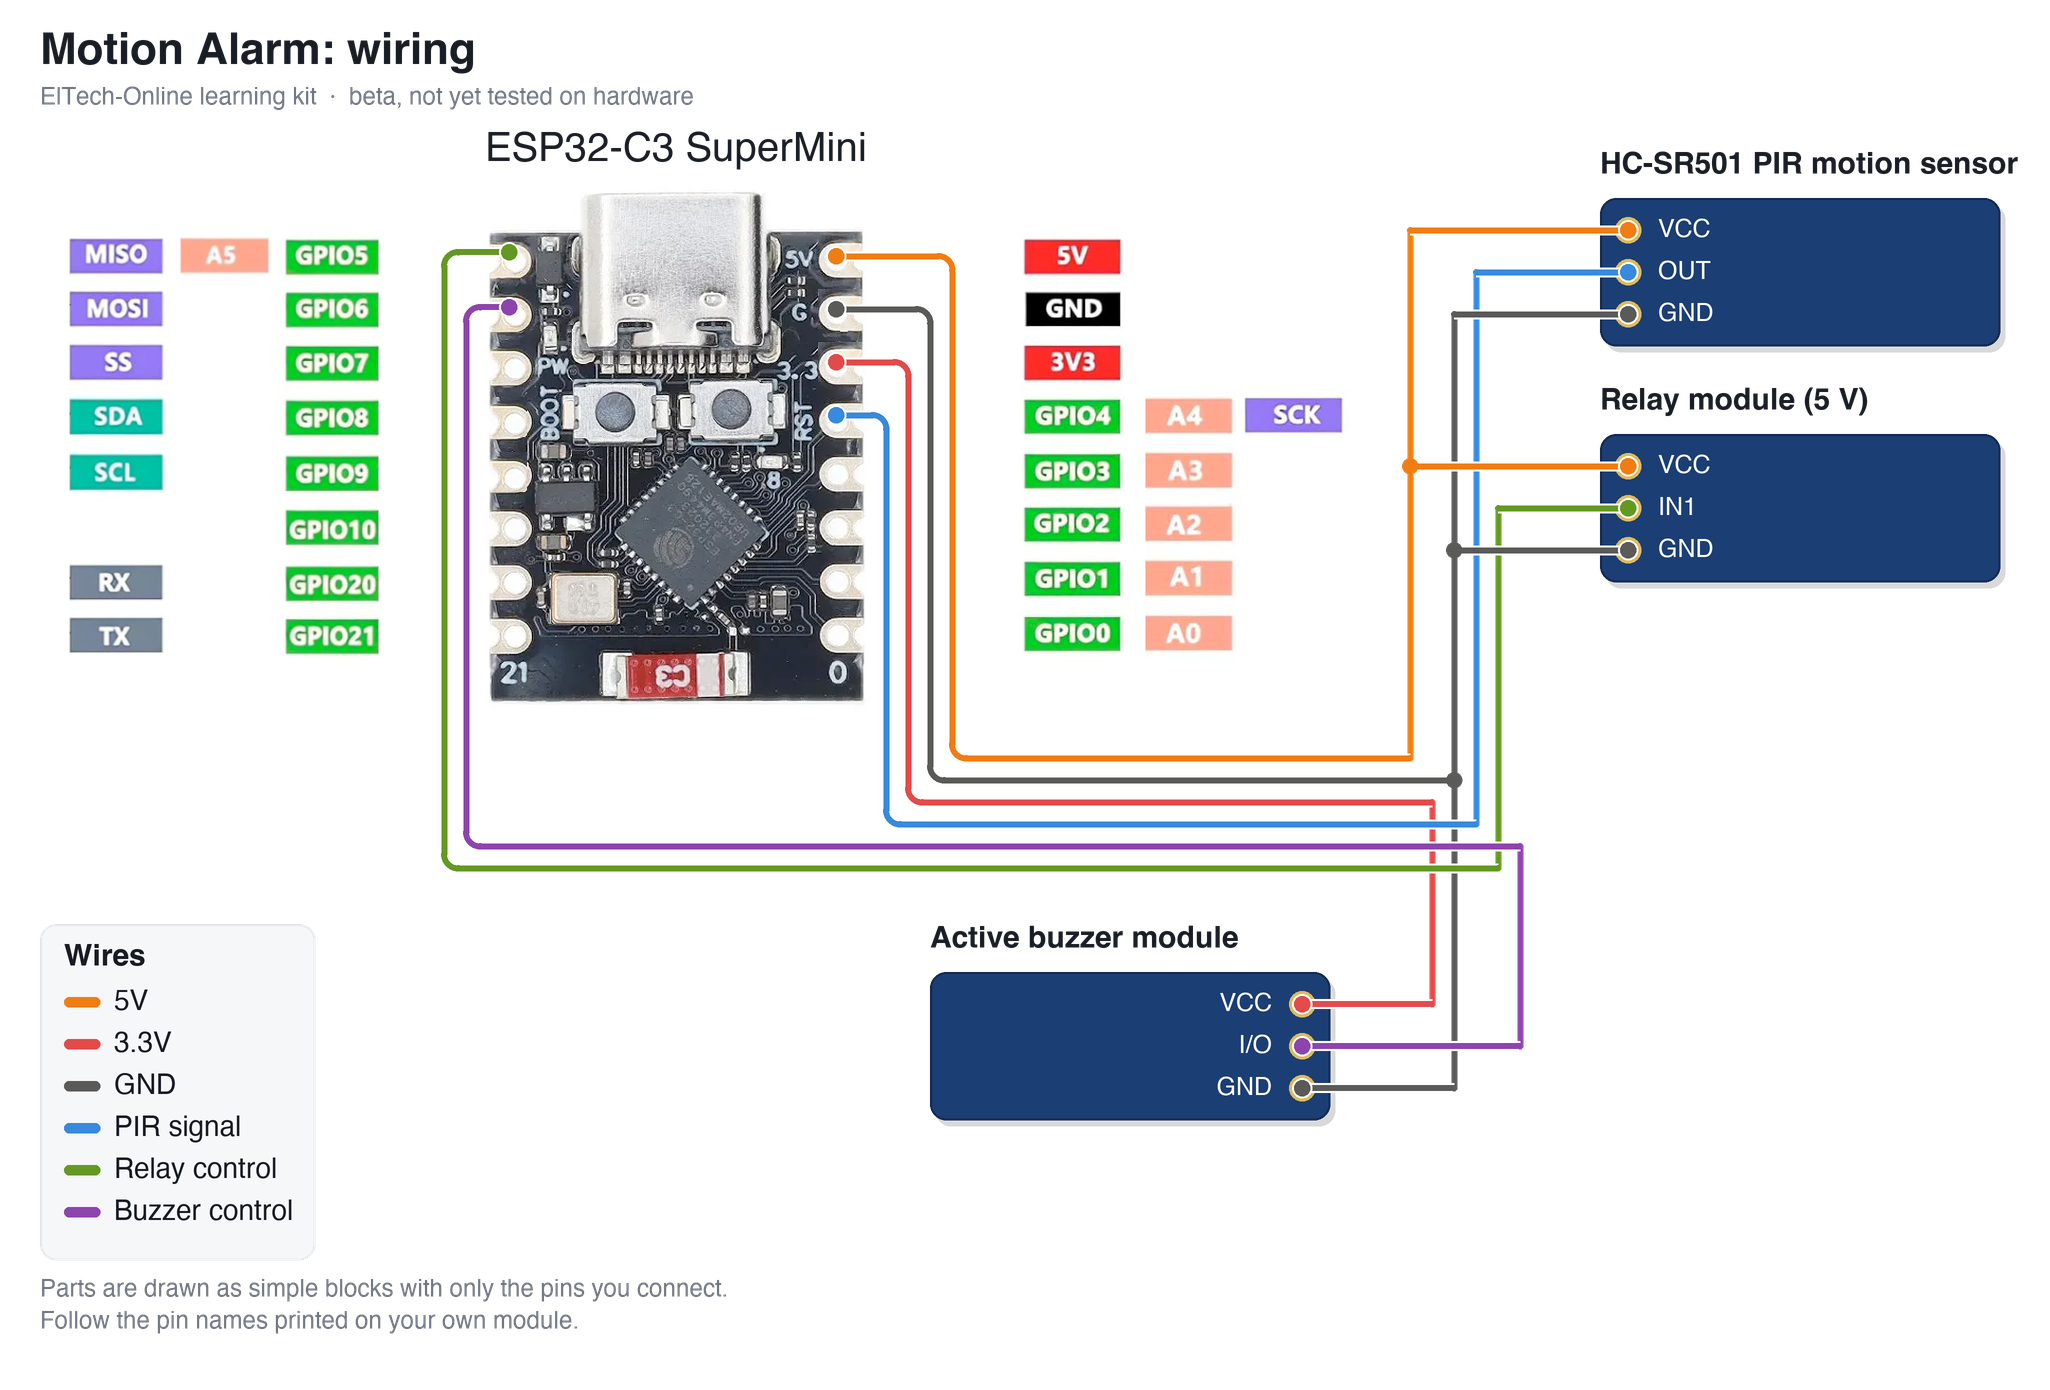
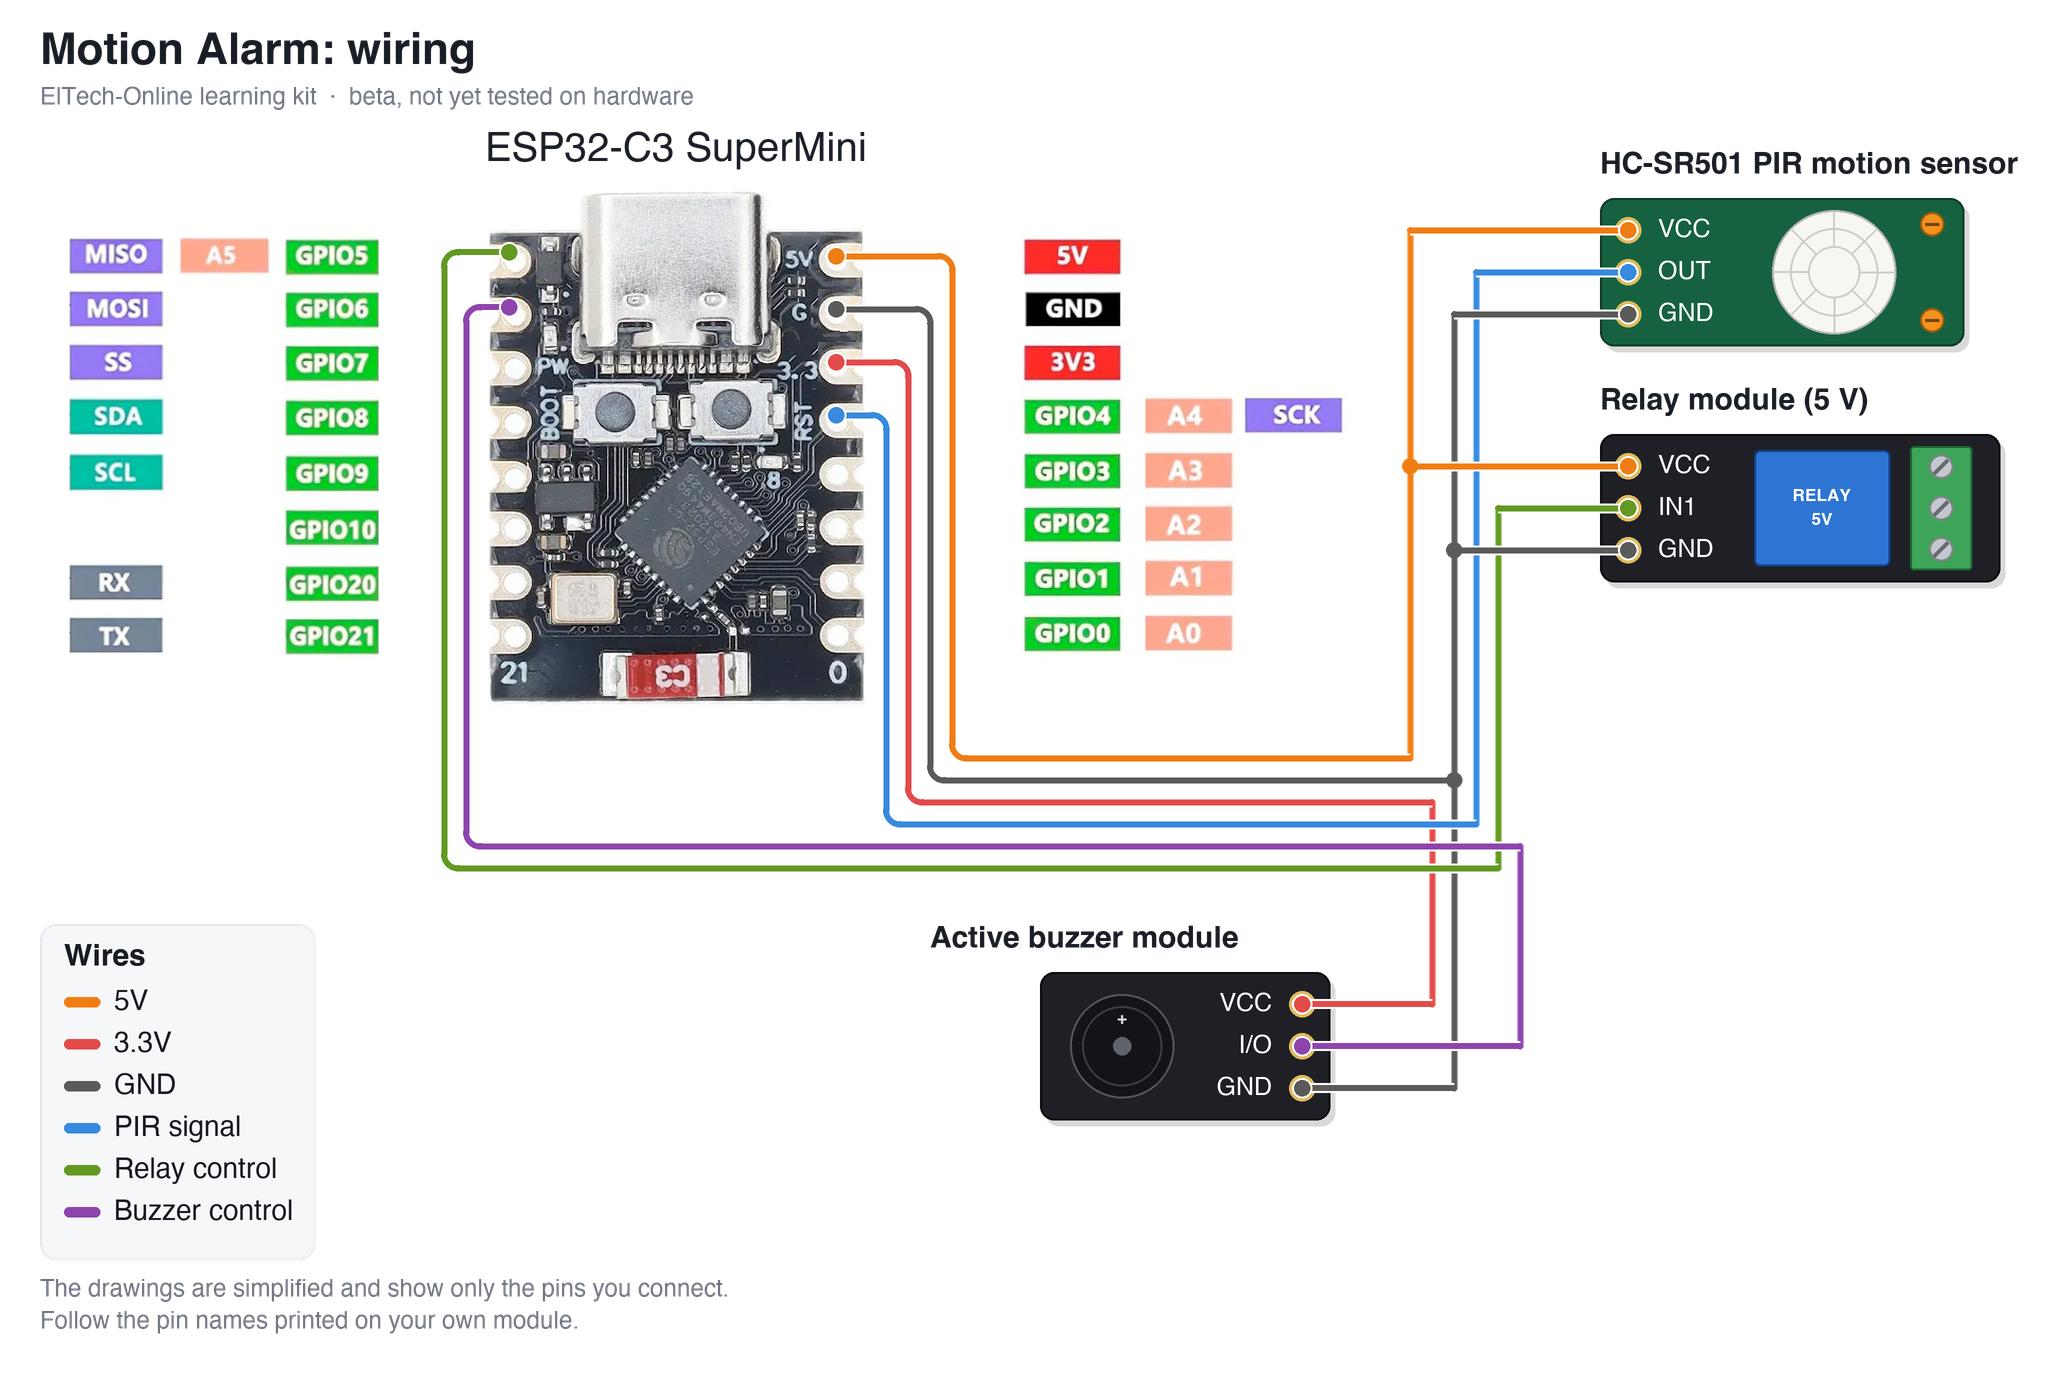
Wiring diagram: draw the parts as pictures instead of plain blocks

diff --git a/README.md b/README.md
@@ -88,7 +88,7 @@ There are **two sketches** in this repo:
 
 ![Wiring diagram: Motion Alarm](wiring_diagram.png)
 
-The parts are drawn as simple blocks showing only the pins you connect. **Always follow the labels printed on your own modules** — the pin order differs between manufacturers.
+The parts are drawn in a simplified way, showing only the pins you connect. **Always follow the labels printed on your own modules** — the pin order differs between manufacturers.
 
 Good to know:
 
